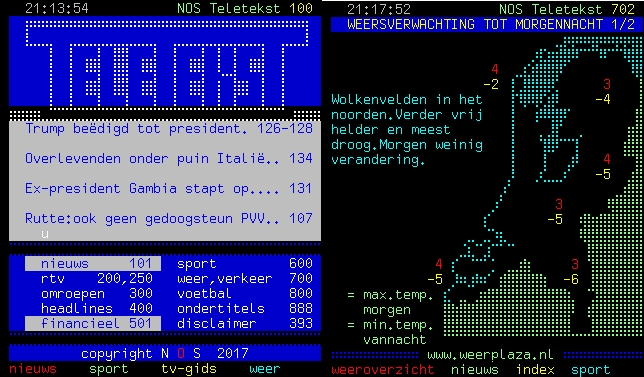
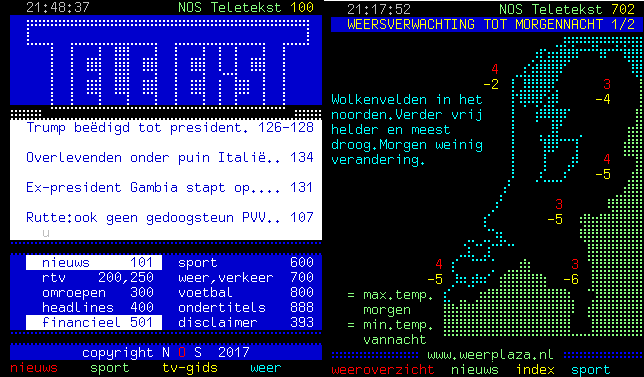
Use reverse bold color for lighter background to better match orginal teletext colors

diff --git a/tt.py b/tt.py
@@ -96,7 +96,14 @@ def show_line(scr, l):
                             self.fg = colors_fg[c]
                         if c in colors_bg:
                             self.bg = colors_bg[c]
-            scr.attrset(curses.color_pair(self.fg + self.bg*8) + curses.A_BOLD)
+
+            attr = 0
+            if self.bg > 0:
+                attr = curses.color_pair(self.fg*8 + self.bg) + curses.A_REVERSE
+            else:
+                attr = curses.color_pair(self.bg*8 + self.fg)
+
+            scr.attrset(attr + curses.A_BOLD)
 
         def handle_endtag(self, tag):
             pass
